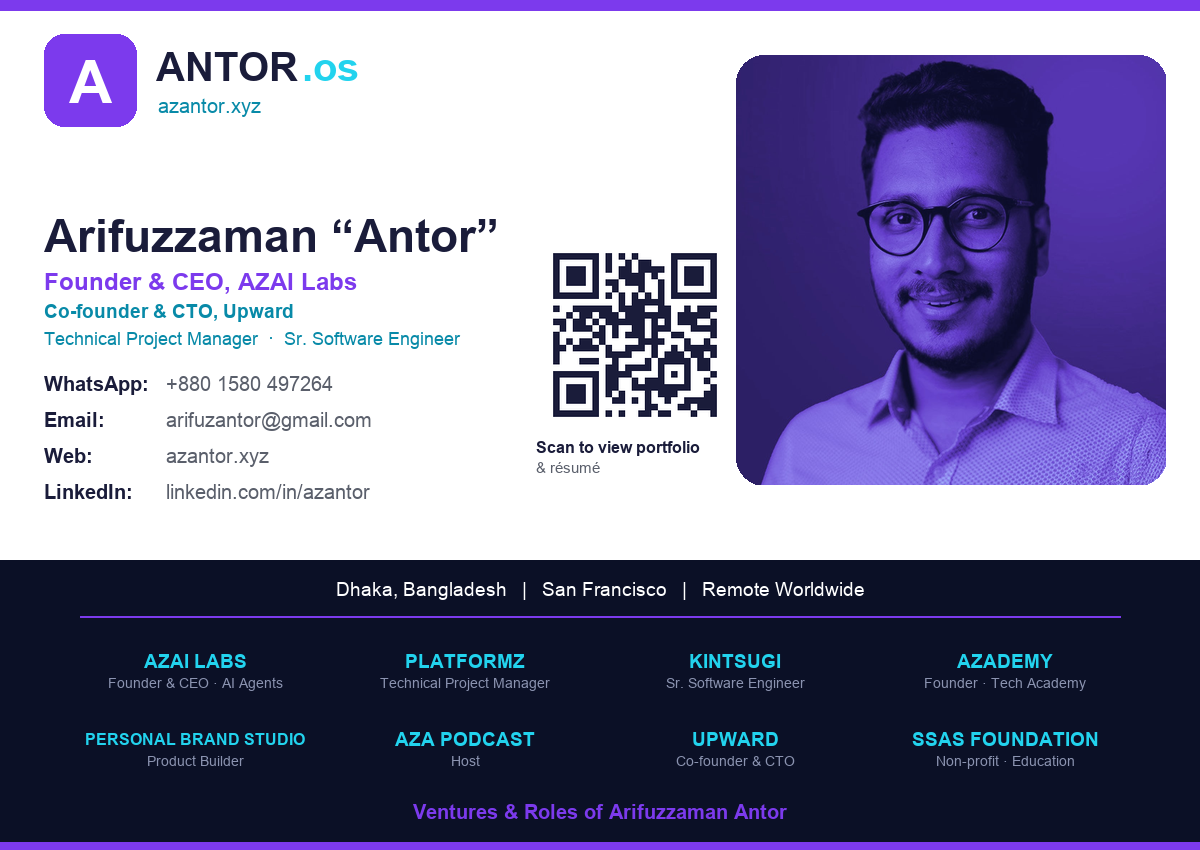
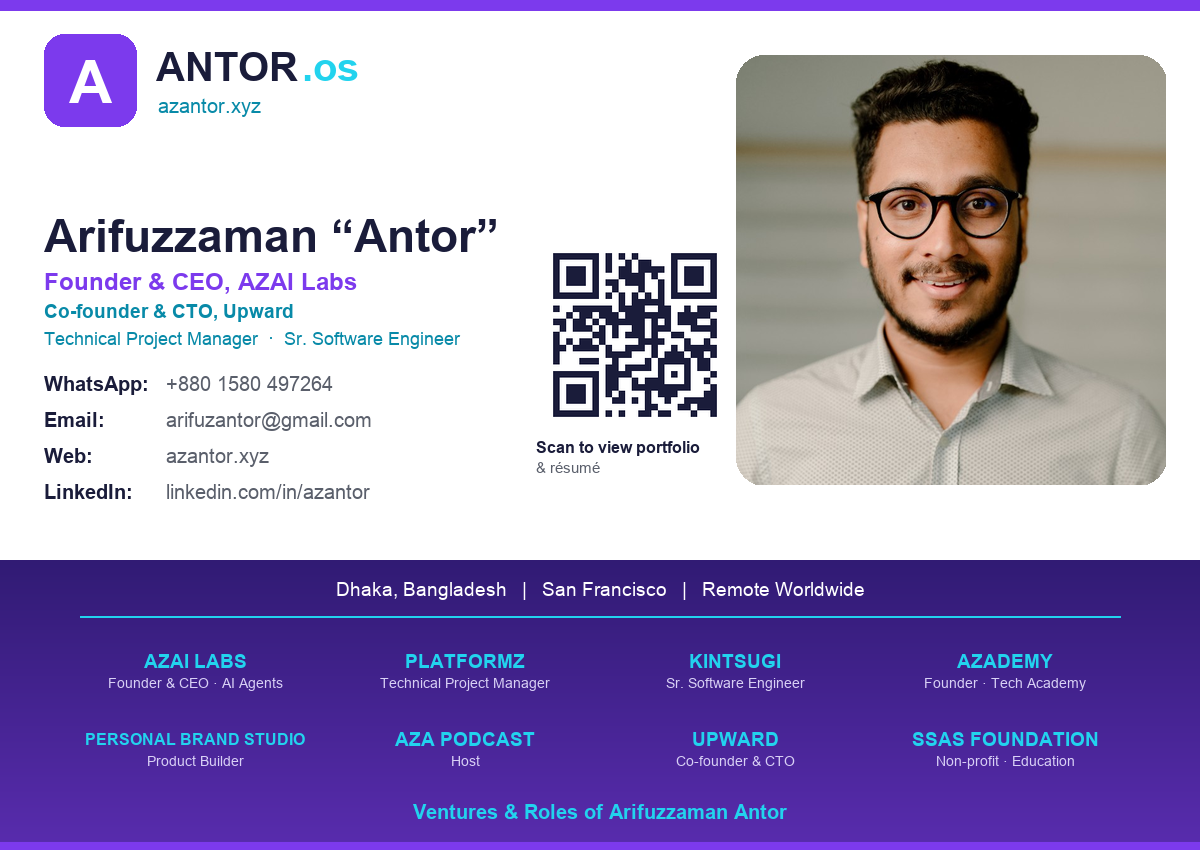
eCard: natural-color photo + violet gradient band (was dark); commit generator script

diff --git a/scripts/make_ecard.py b/scripts/make_ecard.py
@@ -1,0 +1,110 @@
+from PIL import Image, ImageDraw, ImageFont
+import qrcode
+
+W, H = 1200, 850
+BG_DARK = (11, 16, 38)     # site bg
+VIOLET = (124, 58, 237)
+CYAN = (34, 211, 238)
+INK = (26, 28, 58)
+GRAY = (90, 95, 107)
+MUTED = (139, 147, 176)
+WHITE = (255, 255, 255)
+
+BOLD = "/System/Library/Fonts/Supplemental/Arial Bold.ttf"
+REG  = "/System/Library/Fonts/Supplemental/Arial.ttf"
+F = lambda p, s: ImageFont.truetype(p, s)
+
+img = Image.new("RGB", (W, H), WHITE)
+d = ImageDraw.Draw(img)
+
+# Violet top strip
+d.rectangle([0, 0, W, 10], fill=VIOLET)
+
+# ---- White band ----
+# Logo mark: violet rounded square with "A"
+d.rounded_rectangle([44, 34, 44+92, 34+92], radius=20, fill=VIOLET)
+aw = d.textlength("A", font=F(BOLD, 60))
+d.text((44 + 46 - aw/2, 34 + 14), "A", font=F(BOLD, 60), fill=WHITE)
+d.text((156, 44), "ANTOR", font=F(BOLD, 40), fill=INK)
+d.text((156 + d.textlength("ANTOR", font=F(BOLD, 40)) + 4, 44), ".os", font=F(BOLD, 40), fill=CYAN)
+d.text((158, 94), "azantor.xyz", font=F(REG, 20), fill=(8, 138, 168))
+
+# Name + titles
+d.text((44, 210), "Arifuzzaman “Antor”", font=F(BOLD, 46), fill=INK)
+d.text((44, 268), "Founder & CEO, AZAI Labs", font=F(BOLD, 24), fill=VIOLET)
+d.text((44, 300), "Co-founder & CTO, Upward", font=F(BOLD, 19), fill=(8, 138, 168))
+d.text((44, 328), "Technical Project Manager  ·  Sr. Software Engineer", font=F(REG, 18), fill=(8, 138, 168))
+
+# Contacts
+cy = 372
+rows = [
+    ("WhatsApp:", "+880 1580 497264"),
+    ("Email:", "arifuzantor@gmail.com"),
+    ("Web:", "azantor.xyz"),
+    ("LinkedIn:", "linkedin.com/in/azantor"),
+]
+for label, val in rows:
+    d.text((44, cy), label, font=F(BOLD, 20), fill=INK)
+    d.text((44 + 122, cy), val, font=F(REG, 20), fill=GRAY)
+    cy += 36
+
+# QR -> azantor.xyz
+qr = qrcode.QRCode(box_size=8, border=2)
+qr.add_data("https://azantor.xyz")
+qr.make(fit=True)
+qim = qr.make_image(fill_color="#1a1c3a", back_color="white").convert("RGB").resize((190, 190), Image.LANCZOS)
+qx, qy = 540, 240
+img.paste(qim, (qx, qy))
+d.text((qx - 4, qy + 198), "Scan to view portfolio", font=F(BOLD, 16), fill=INK)
+d.text((qx - 4, qy + 219), "& résumé", font=F(REG, 15), fill=GRAY)
+
+# Photo — square duotone portrait with rounded corners
+ph_full = Image.open("/Users/aza/Desktop/Upward/public/team/antor.png").convert("RGB")
+side = ph_full.width  # 683 — square crop from the top (face + shoulders)
+ph = ph_full.crop((0, 30, side, 30 + side)).resize((430, 430), Image.LANCZOS)
+mask = Image.new("L", (430, 430), 0)
+ImageDraw.Draw(mask).rounded_rectangle([0, 0, 430, 430], radius=28, fill=255)
+img.paste(ph, (736, 55), mask)
+
+# ---- Dark band ----
+grad = Image.new("RGB", (1, 282))
+gd = ImageDraw.Draw(grad)
+top_c, bot_c = (49, 27, 116), (88, 44, 173)
+for y in range(282):
+    t = y / 281
+    gd.point((0, y), fill=tuple(int(top_c[i] + (bot_c[i] - top_c[i]) * t) for i in range(3)))
+img.paste(grad.resize((W, 282)), (0, 560))
+regions = "Dhaka, Bangladesh   |   San Francisco   |   Remote Worldwide"
+rw = d.textlength(regions, font=F(REG, 19))
+d.text(((W - rw) / 2, 578), regions, font=F(REG, 19), fill=WHITE)
+d.line([80, 616, W - 80, 616], fill=(34, 211, 238), width=2)
+
+ventures = [
+    ("AZAI LABS", "Founder & CEO · AI Agents"),
+    ("PLATFORMZ", "Technical Project Manager"),
+    ("KINTSUGI", "Sr. Software Engineer"),
+    ("AZADEMY", "Founder · Tech Academy"),
+    ("PERSONAL BRAND STUDIO", "Product Builder"),
+    ("AZA PODCAST", "Host"),
+    ("UPWARD", "Co-founder & CTO"),
+    ("SSAS FOUNDATION", "Non-profit · Education"),
+]
+cols, col_w = 4, (W - 120) / 4
+for i, (name, sub) in enumerate(ventures):
+    cx = 60 + (i % cols) * col_w + col_w / 2
+    cyv = 650 + (i // cols) * 78
+    f_n = F(BOLD, 19 if len(name) < 20 else 16)
+    nw = d.textlength(name, font=f_n)
+    d.text((cx - nw / 2, cyv + (2 if len(name) >= 20 else 0)), name, font=f_n, fill=CYAN)
+    sw = d.textlength(sub, font=F(REG, 14))
+    d.text((cx - sw / 2, cyv + 25), sub, font=F(REG, 14), fill=(216, 208, 245))
+
+foot = "Ventures & Roles of Arifuzzaman Antor"
+fw = d.textlength(foot, font=F(BOLD, 20))
+d.text(((W - fw) / 2, 800), foot, font=F(BOLD, 20), fill=(34, 211, 238))
+
+d.rectangle([0, 842, W, 850], fill=VIOLET)
+
+out = "/Users/aza/Desktop/Purpose/Job_s/Platformz/portfolio/public/ecard.png"
+img.save(out, "PNG", optimize=True)
+print("WROTE", out, img.size)
